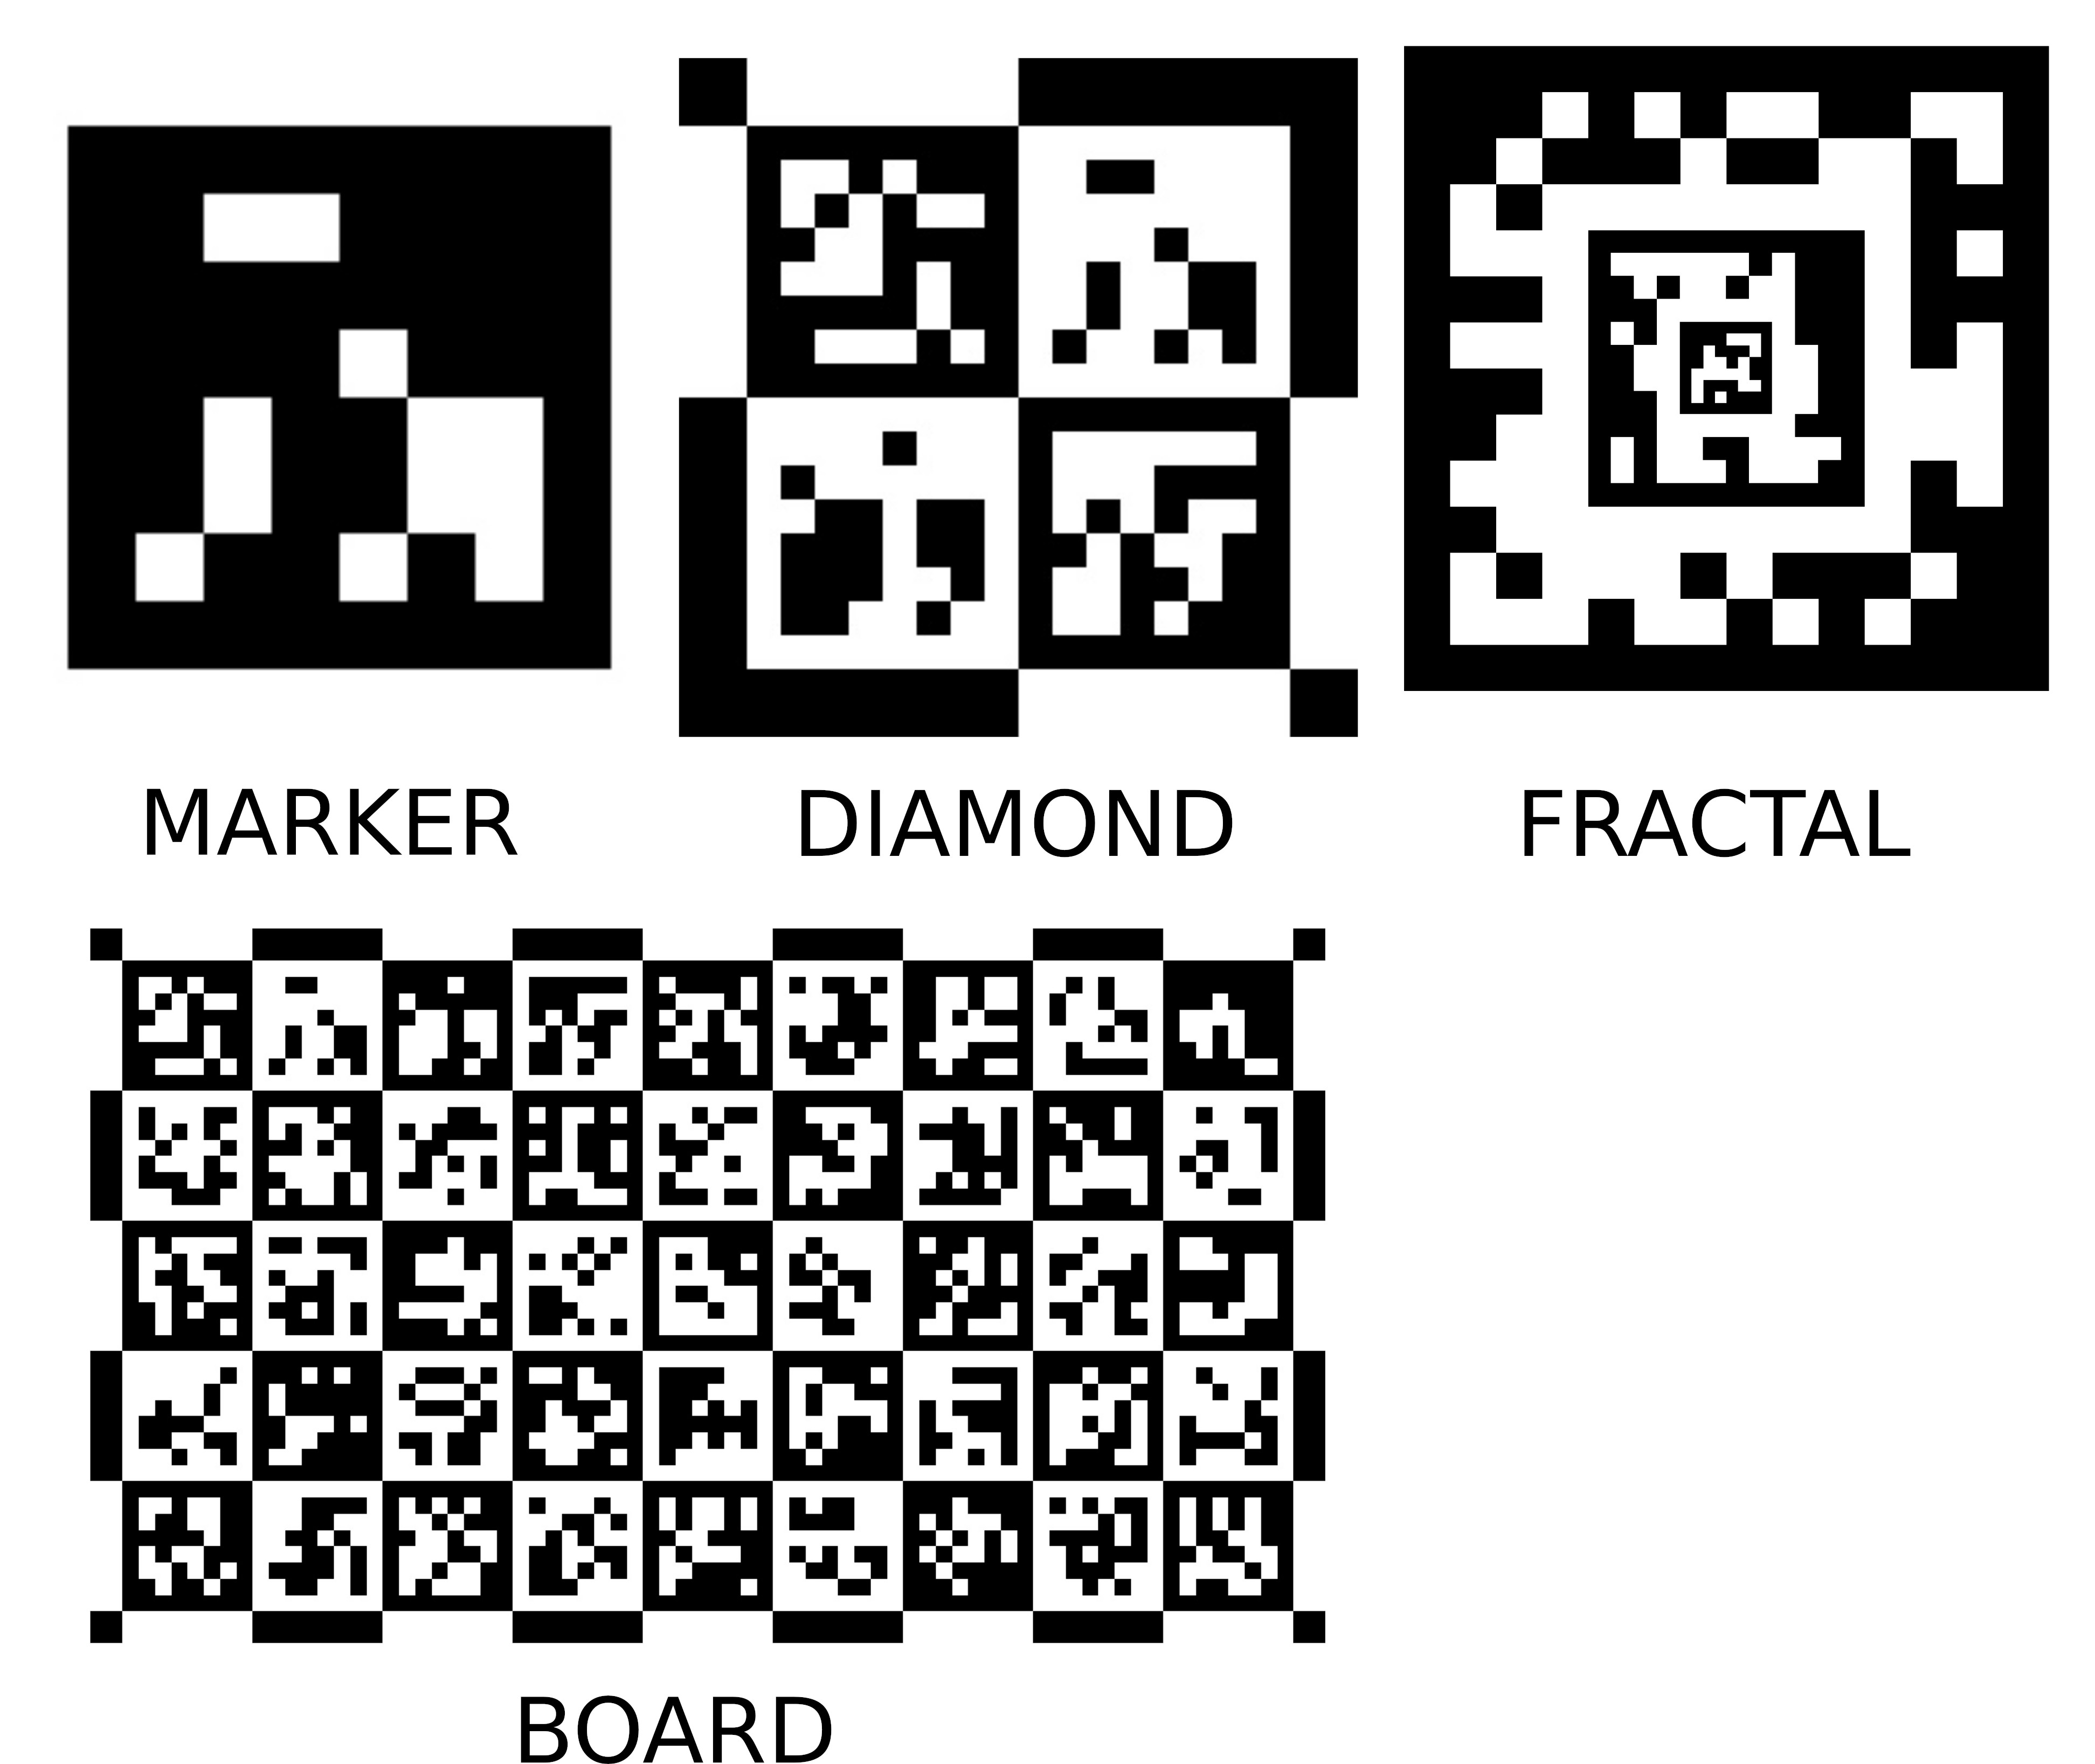
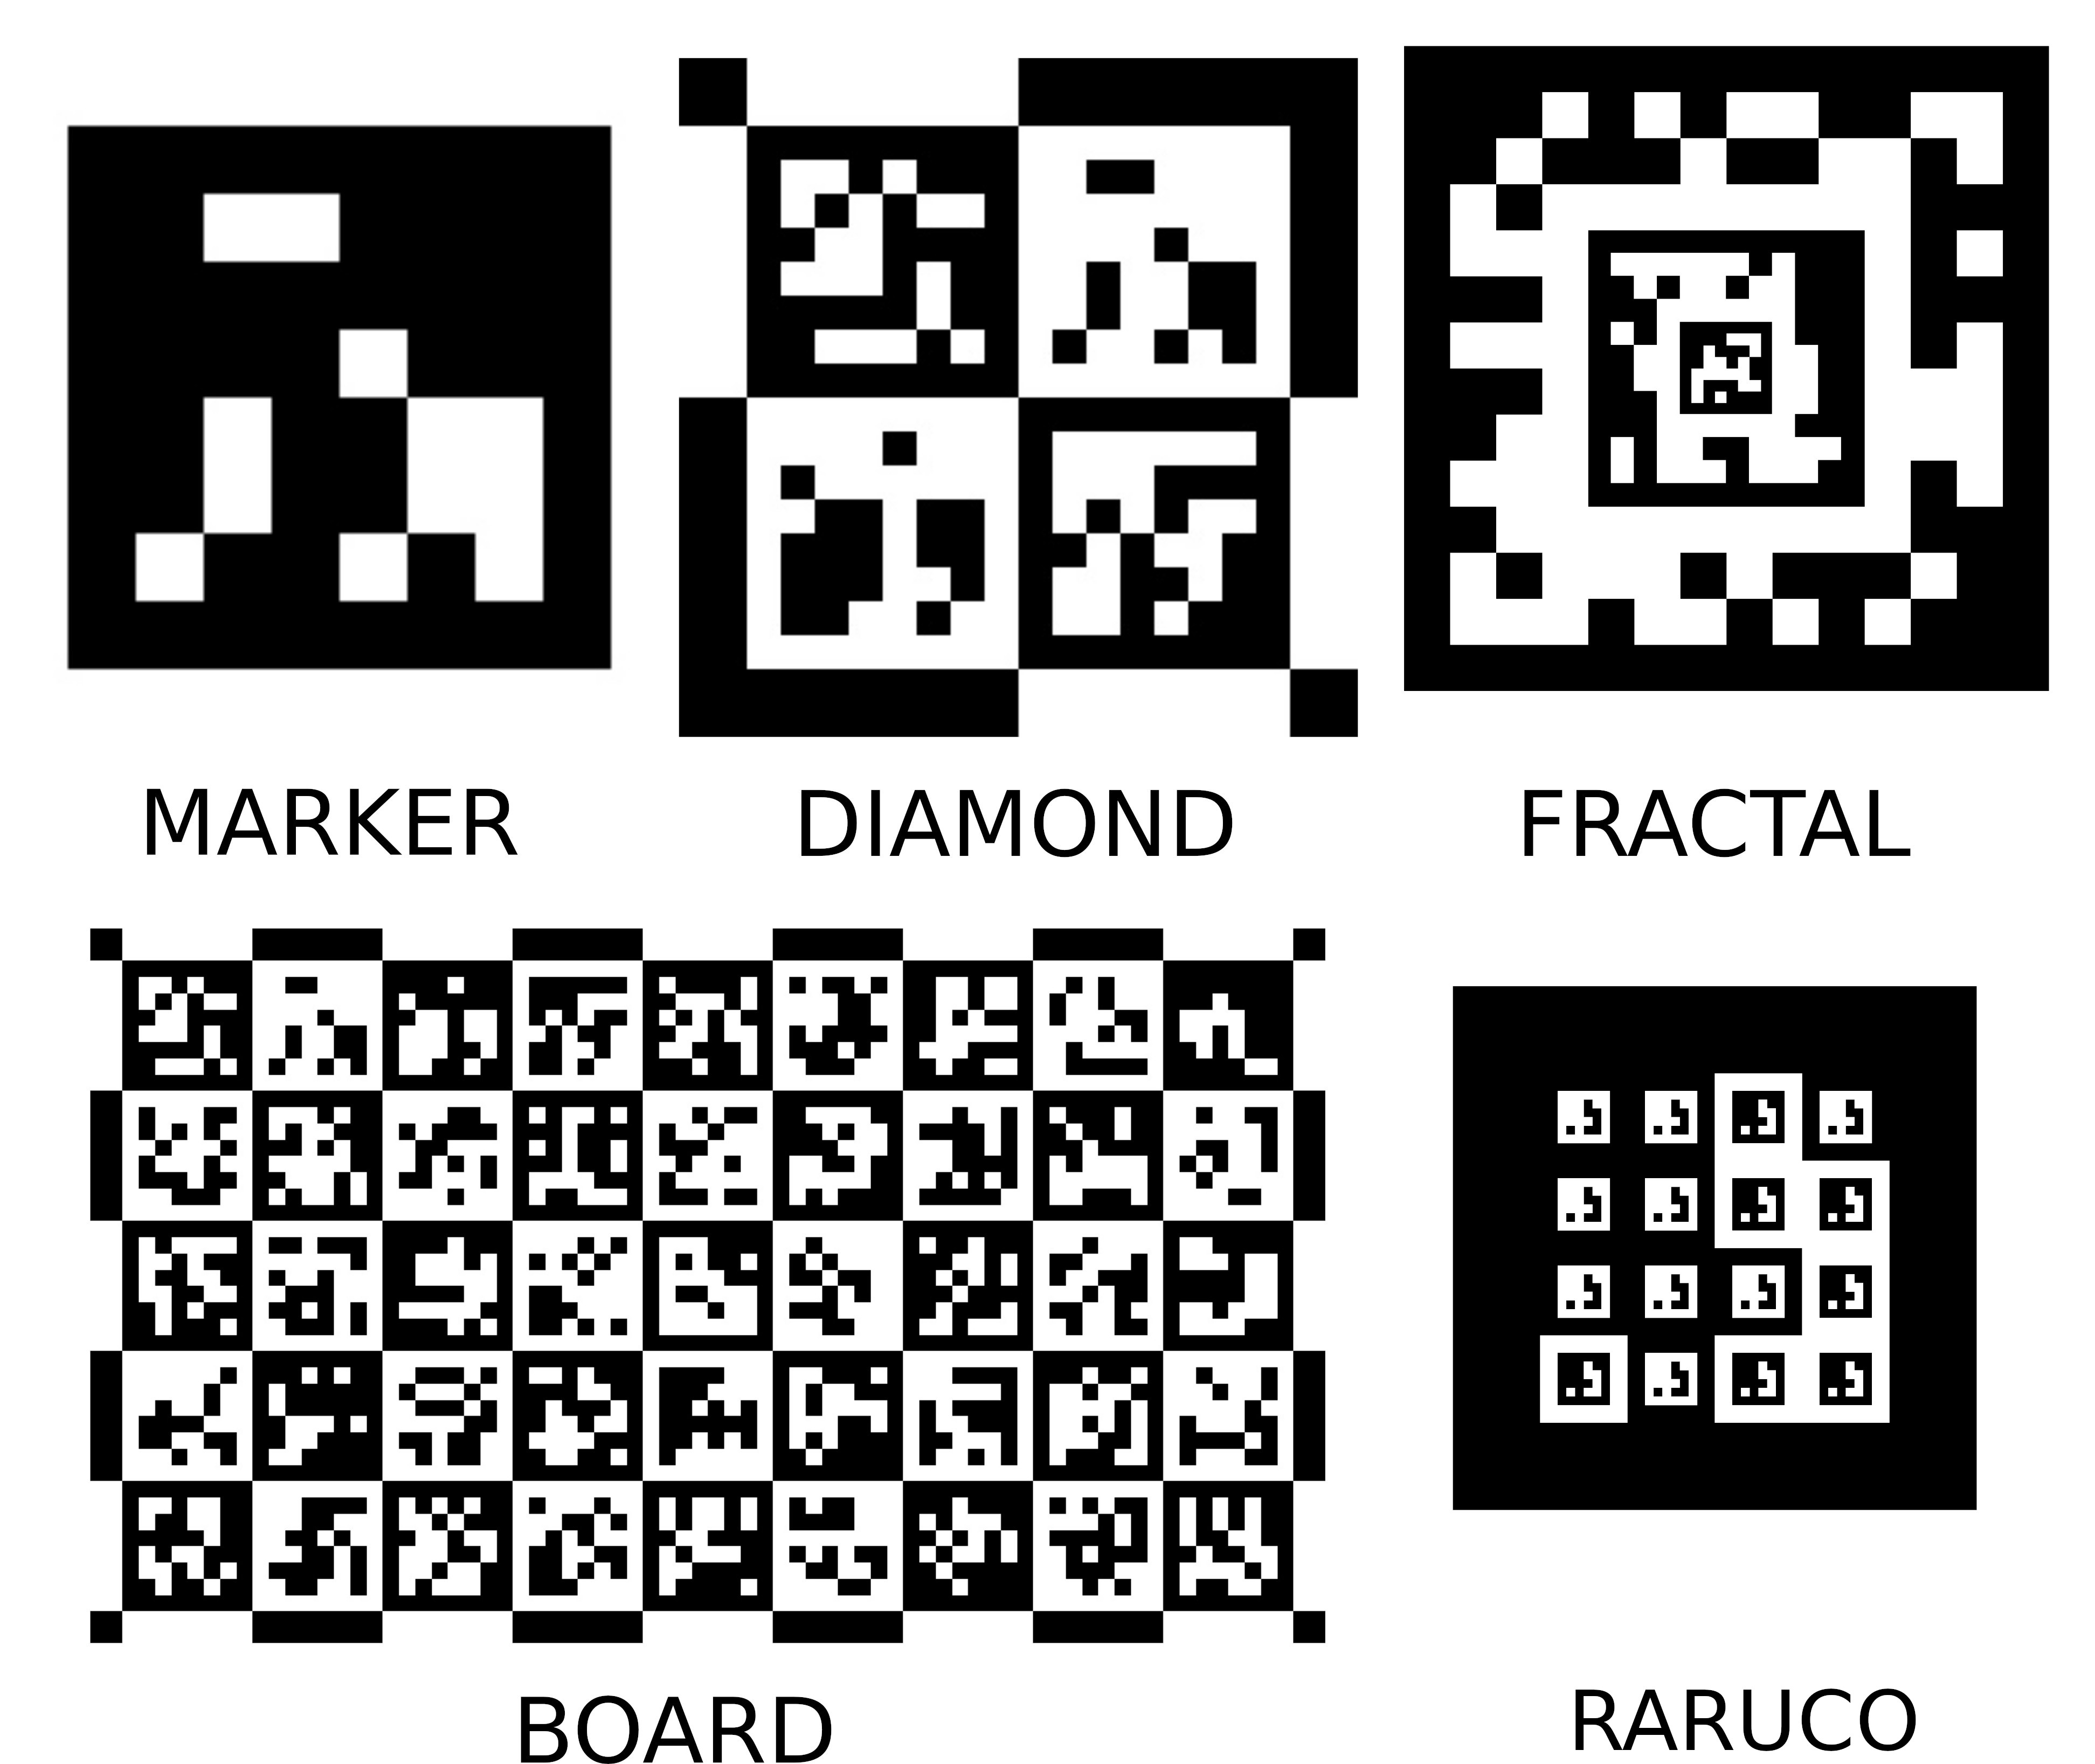
updated README with raruco info

Changed region(s): [[0.6848, 0.561, 0.965, 0.8726], [0.7471, 0.9349, 0.9339, 0.9973]]

diff --git a/README.md b/README.md
@@ -12,6 +12,7 @@ A proposed replacement for the ArUco module in OpenCV (fully compatible and comp
 - **Multi-dictionary** detection in one pass
 - **Boards and diamonds** based on [ChArUco2](https://github.com/rmsalinas/charuco2) — double the marker density, twice the corners at 75% occlusion
 - **Fractal markers** — nested multi-scale design gives many more corners for pose estimation, robust to heavy occlusion
+- **RArUco markers** — recursive design nesting the same marker ID within its own bit cells; maintains a single ID across all scales for robust, long-range UAV landing pads (independent of center visibility)
 - **OpenCL acceleration** *(coming soon)*
 
 ---
@@ -58,6 +59,7 @@ for (auto &marker : cv::aruco2::detectFiducialMarkers(image))
 | Board design | markers on half the squares | ChArUco2: markers on every square |
 | Diamond | separate concept using corner lists | first-class `Diamond` type with `vector<FiducialMarker>` |
 | Fractal markers | not supported | first-class `FractalMarker` type — nested design, many more pose corners |
+| RArUco markers | not supported | recursive marker generation and detection via `detectRArucoMarkers()` |
 | Python result | separate lists | `markers = cv.aruco2.detectFiducialMarkers(image)` |
 
 ---
@@ -100,11 +102,13 @@ struct FractalMarker {
 | `getGridBoardImage(img, boardSize, dictionary)` | render a grid board to an image |
 | `getDiamondImage(img, dictionary, ids)` | render a diamond (2×2 block) to an image |
 | `getFractalMarkerImage(img, ftype)` | render a fractal marker to an image |
+| `getRArucoMarkerImage(img, dictionary, id, depth, bitSize, innerBorders, externalBorder)` | render a RArUco marker to an image |
 | `detectFiducialMarkers(image, dictionary)` → `vector<FiducialMarker>` | find markers in an image |
 | `detectFiducialMarkers(image, {dictionary, …})` → `vector<FiducialMarker>` | find markers across multiple dictionaries |
 | `detectGridBoard(image, gridSize, dictionary, board)` → `bool` | find a grid board |
 | `detectDiamonds(image, dictionary)` → `vector<Diamond>` | find diamond markers |
 | `detectFractals(image, ftype)` → `vector<FractalMarker>` | find fractal markers |
+| `detectRArucoMarkers(image, dictionary, params)` → `vector<FiducialMarker>` | find RArUco markers (ignores center details using border-sampling) |
 | `drawFiducialMarkers(image, markers)` | draw marker outlines and ids |
 | `drawGridBoard(image, board)` | draw detected board corners |
 | `drawDiamonds(image, diamonds)` | draw diamond outlines and ids |
@@ -359,6 +363,47 @@ for (const auto &f : fractals) {
     cv::aruco2::getSolvePnpPoints(f, objPts, imgPts, 0.10f); // 10 cm outer marker
     cv::solvePnP(objPts, imgPts, cameraMatrix, distCoeffs, rvec, tvec);
 }
+
+---
+
+### RArUco marker generation and detection
+
+RArUco markers are recursively nested fiducial markers designed specifically for applications with highly dynamic camera-to-target distances, such as Unmanned Aerial Vehicle (UAV) landing pads. The exact same marker ID is embedded at all levels of recursion, allowing a unified identity across scales.
+
+#### Generate a RArUco marker
+
+```cpp
+#include "opencv2/objdetect/aruco2.hpp"
+
+cv::Mat rarucoImg;
+// Generate a RArUco marker using DICT_APRILTAG_16h5, ID 0, recursion depth 2
+cv::aruco2::getRArucoMarkerImage(rarucoImg, cv::aruco2::DICT_APRILTAG_16h5, 0, 2, 30, 2, true);
+cv::imwrite("raruco_marker.png", rarucoImg);
+```
+
+#### Detect RArUco markers
+
+The detection algorithm uses a border-sampling strategy to read bit colors only from the borders of the bits, explicitly ignoring their centers. This makes RArUco markers highly robust to occlusion or inner sub-marker structure.
+
+```cpp
+#include "opencv2/objdetect/aruco2.hpp"
+#include <iostream>
+
+cv::Mat image = cv::imread("scene.jpg");
+
+// Detect RArUco markers (automatically configures grid bit-sampling and dual color mode)
+auto markers = cv::aruco2::detectRArucoMarkers(image, cv::aruco2::DICT_APRILTAG_16h5);
+
+for (const auto &m : markers) {
+    std::cout << "Detected RArUco marker ID=" << m.id << "\n";
+    
+    // Perform pose estimation using the standard solvePnP points helper
+    cv::Mat imgPts, objPts, rvec, tvec;
+    // Pass the estimated physical size of this specific marker level (e.g. 30 cm)
+    cv::aruco2::getSolvePnpPoints(m, objPts, imgPts, 0.30f);
+    // cv::solvePnP(objPts, imgPts, cameraMatrix, distCoeffs, rvec, tvec);
+}
+```
 ```
 
 ---
@@ -432,6 +477,20 @@ Key advantages over standard OpenCV ChArUco:
 
 ---
 
+### Recursive ArUco (RArUco) markers — based on RArUco
+
+RArUco markers are described in:
+> R. Muñoz-Salinas et al., *"Recursive ArUco Markers: A Scalable Fiducial Marker Design for Unmanned Aerial Vehicle Landing Pads"*, 2026.
+
+Key features and implementation details:
+- **Unified ID across scales** — embedding the same marker ID at all levels of recursion ensures that a UAV drone can unambiguously identify and land on its designated landing pad, regardless of altitude/zoom.
+- **Center-occlusion robustness** — unlike standard, Fractal, or Embedded ArUco markers, RArUco does not depend on the marker's center. Instead, a modified bit-sampling strategy reads bit values from a border region of width `b`, ignoring the center where nested sub-markers reside.
+- **Double color mode detection** — markers are embedded within both black and white bits. Embedded markers in black bits are color-inverted, requiring the detector to look for both standard and inverted candidates.
+- **Highly efficient** — runs at ~185 FPS (tested on Intel Core i7-13700H), outperforming both standard ArUco (~85 FPS) and Fractal markers (~76 FPS).
+- **Graceful degradation** — maintains a 100% detection rate at up to 30% occlusion and when cropped up to 60% (only 40% area visible).
+
+---
+
 ## Building
 
 This project compiles with both **OpenCV 5** and **OpenCV 4**.
@@ -465,6 +524,8 @@ cmake --build build
 | Fractal marker detection | done |
 | Draw detected fractal markers | done |
 | Pose estimation — fractal marker | done |
+| Generate RArUco marker images | done |
+| RArUco marker detection | done |
 | Python bindings | designed, pending OpenCV integration |
 
 ---